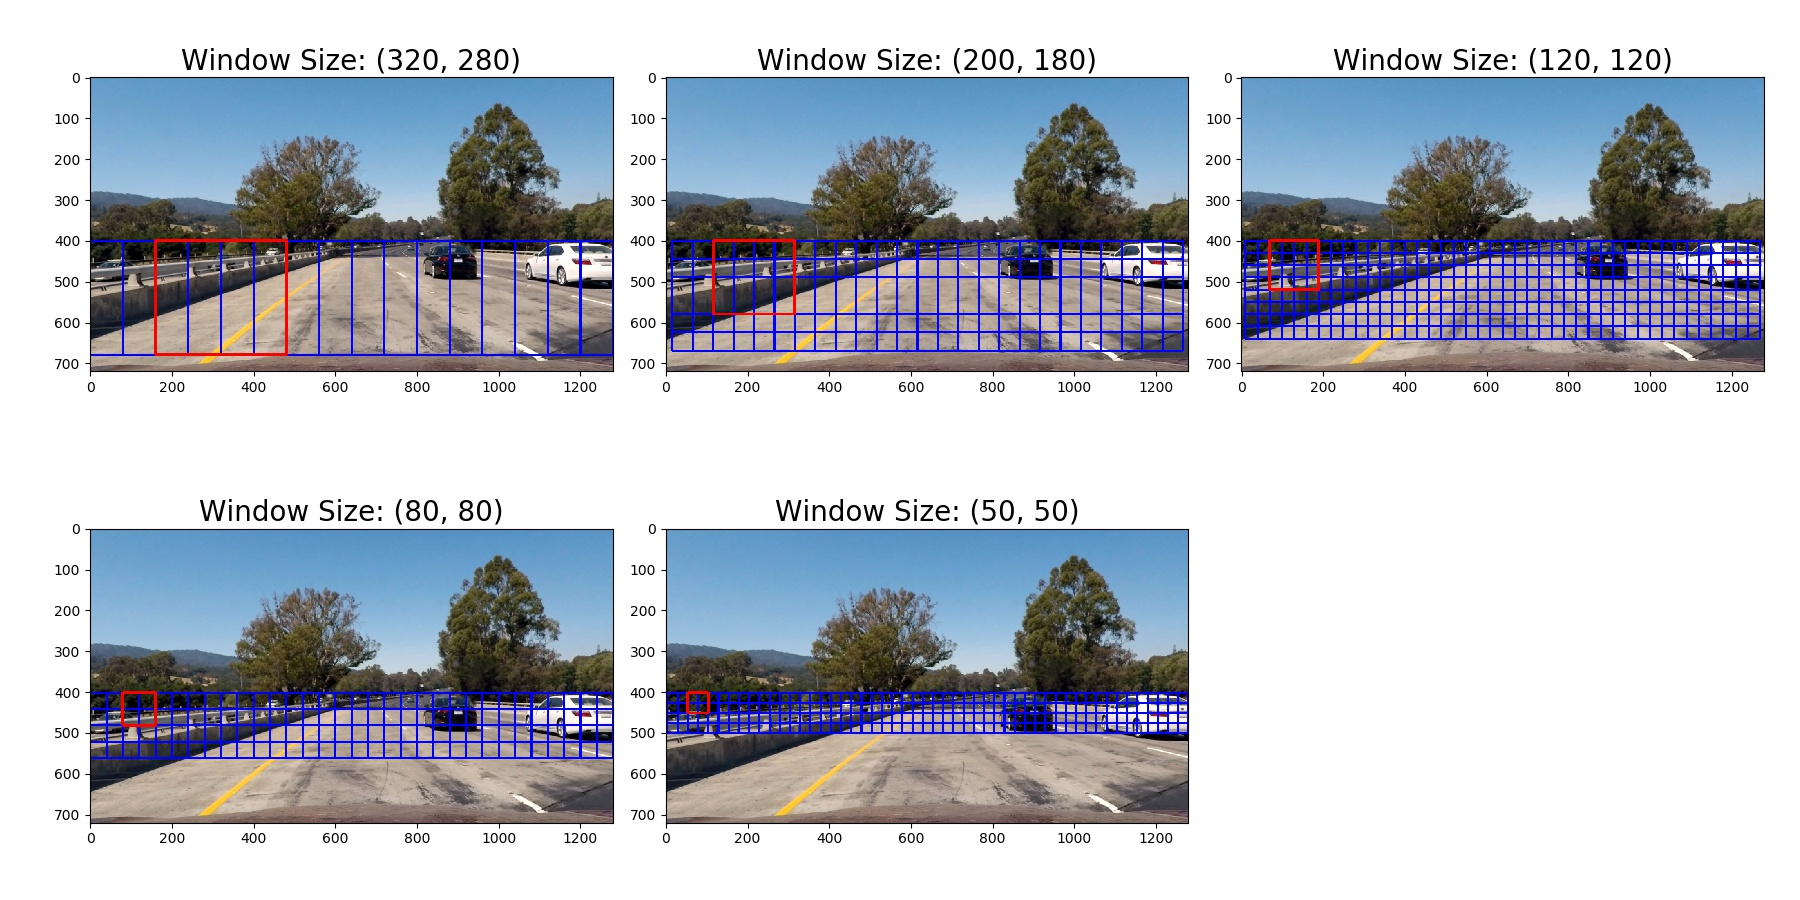
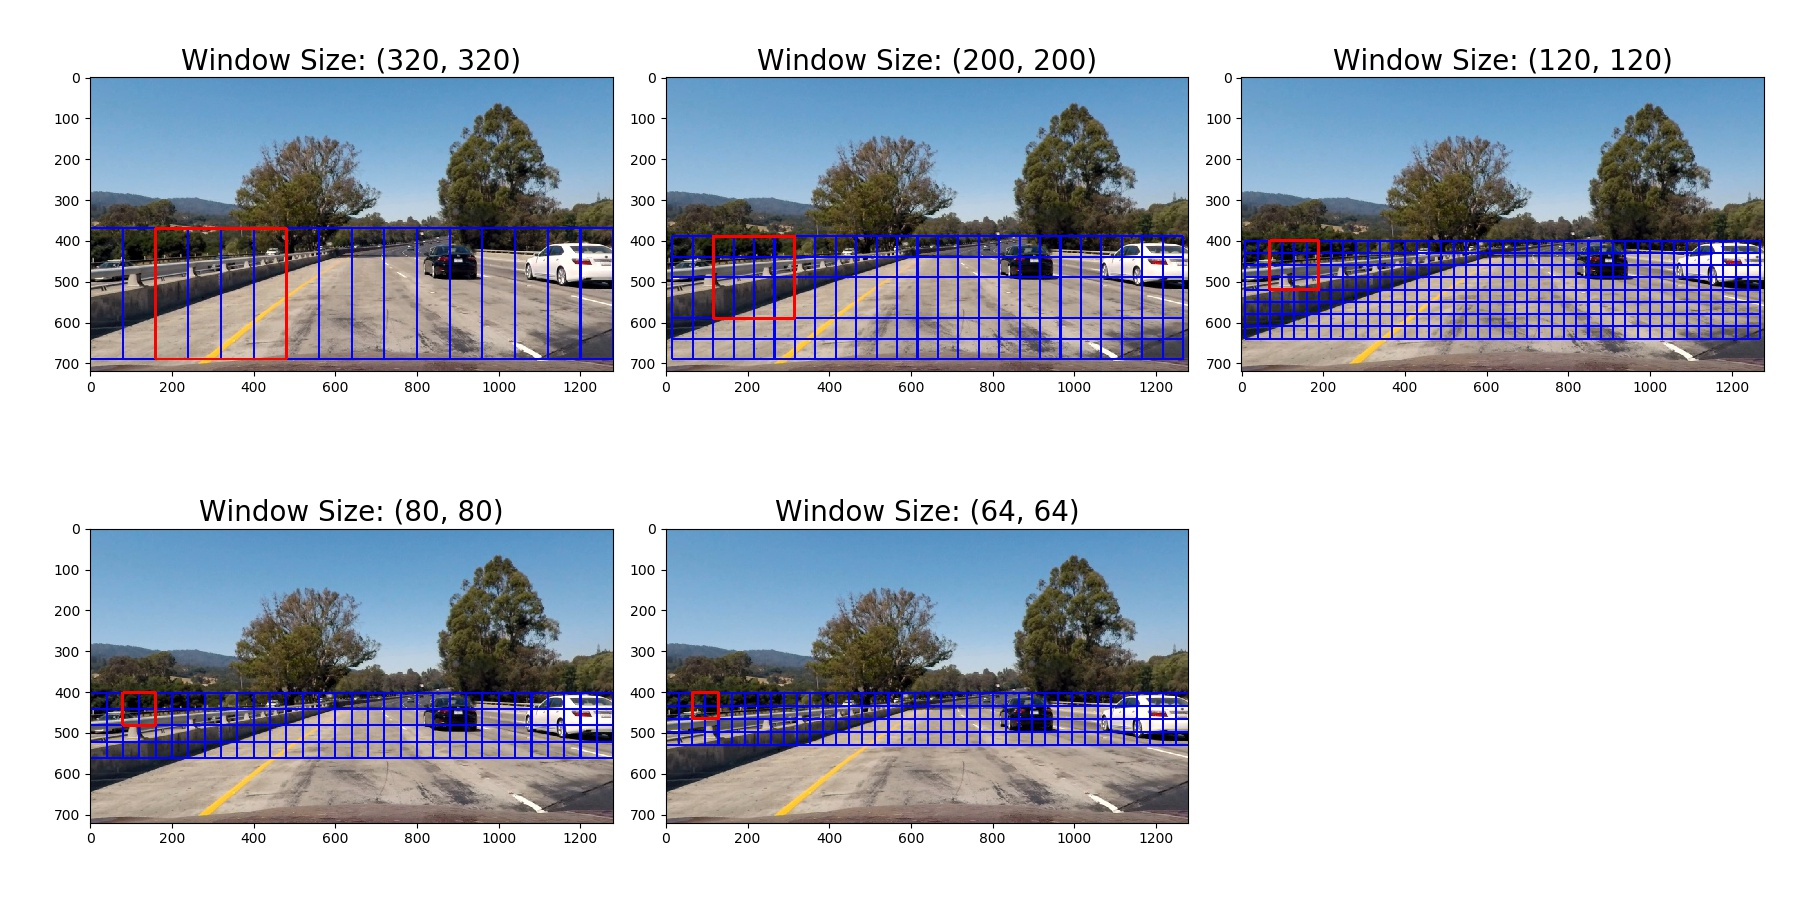
Update detecting slide window positions

diff --git a/py-src/p05_04_determine_slide_window.py b/py-src/p05_04_determine_slide_window.py
@@ -58,14 +58,14 @@ def find_slide_windows(img, x_start_stop=[None, None], y_start_stop=[None, None]
     # Return the list of windows
     return window_list
 
-def get_window_metrics():
+def get_window_metrics(y_start=370):
     # window_metrics = [(xy_window, x_start_stop, y_start_stop, overlap), ...]
     window_metrics = [
-        ((320, 280), [None, None], [400, 680], 0.75),
-        ((200, 180), [15, None], [400, 670], 0.75),
-        ((120, 120), [10, None], [400, 640], 0.75),
-        ((80, 80), [None, None], [400, 560], 0.5),
-        ((50, 50), [3, None], [400, 500], 0.5),
+        ((320, 320), [None, None], [y_start, y_start + 320], 0.75),
+        ((200, 200), [15, None], [y_start + 20, y_start + 320], 0.75),
+        ((120, 120), [10, None], [y_start + 30, y_start + 270], 0.75),
+        ((80, 80), [None, None], [y_start + 30, y_start + 190], 0.5),
+        ((64, 64), [None, None], [y_start + 30, y_start + 158], 0.5),
     ]
     return window_metrics
 

diff --git a/writeup_report.md b/writeup_report.md
@@ -98,7 +98,7 @@ The source code that determines slide window position is in
 [py-src/p05_04_determine_slide_window.py](py-src/p05_04_determine_slide_window.py).
 
 First, the positions of slide windows are determined.
-Five window sizes, which vary from (50, 50) to (320, 280), are used.
+Five window sizes, which vary from (64, 64) to (320, 320), are used.
 The upper parts (about half) of the images are disregarded because a vehicle
 does not appear there.
 From the remainder, some lower parts are also disregarded
@@ -114,7 +114,7 @@ The image below shows slide window positions for each window size.
 ![Slide Window Positions][img_slide_win_01]
 
 
-### 2. Vehicle Detection
+### 2. Slide Window Vehicle Search
 
 
 **Describe how (and identify where in your code) you implemented a sliding 
